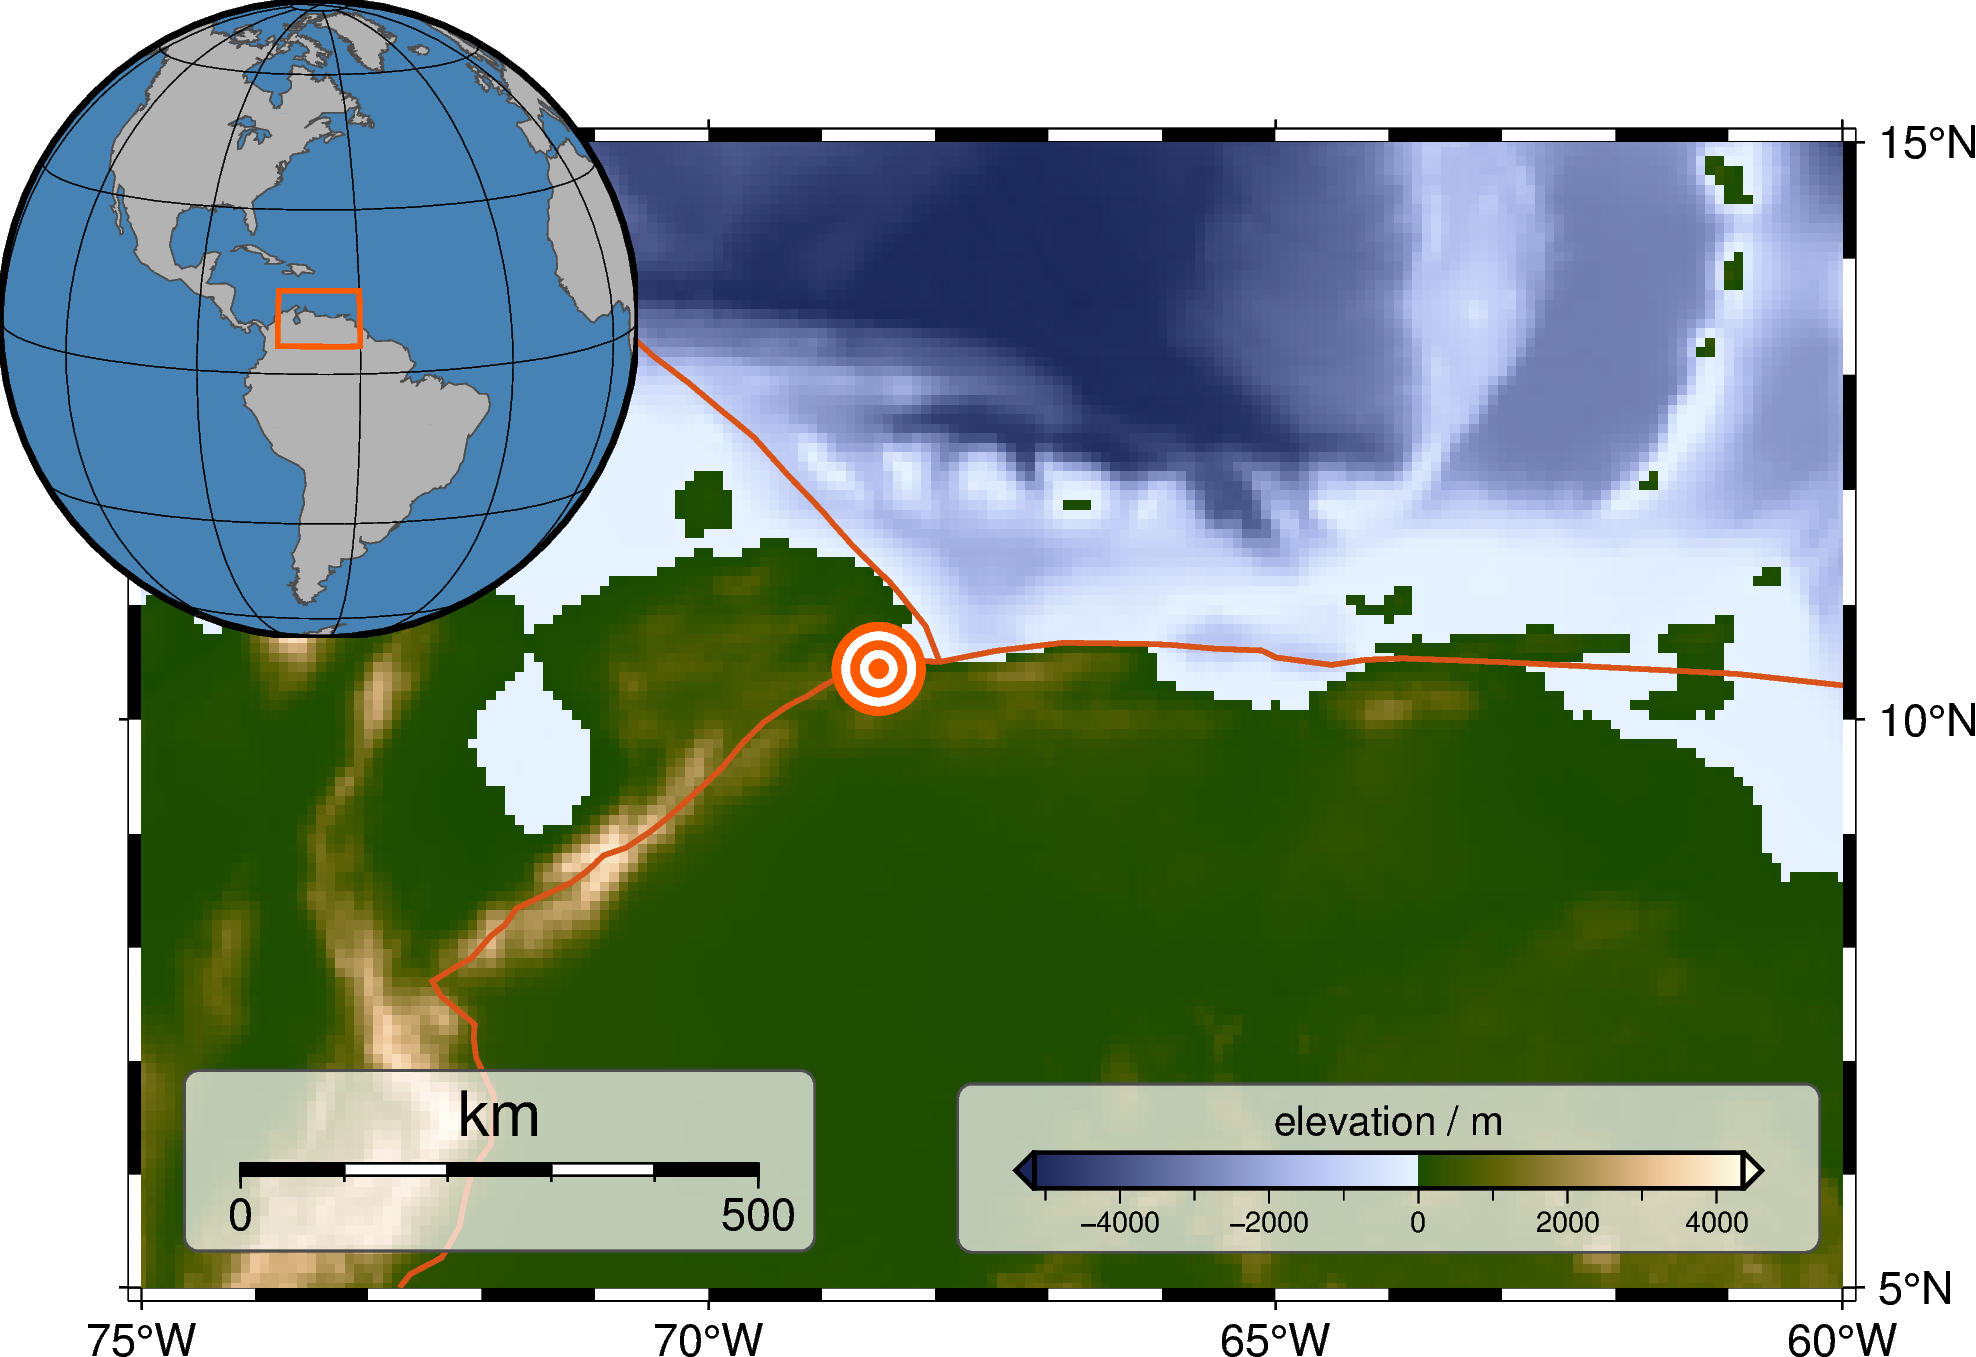
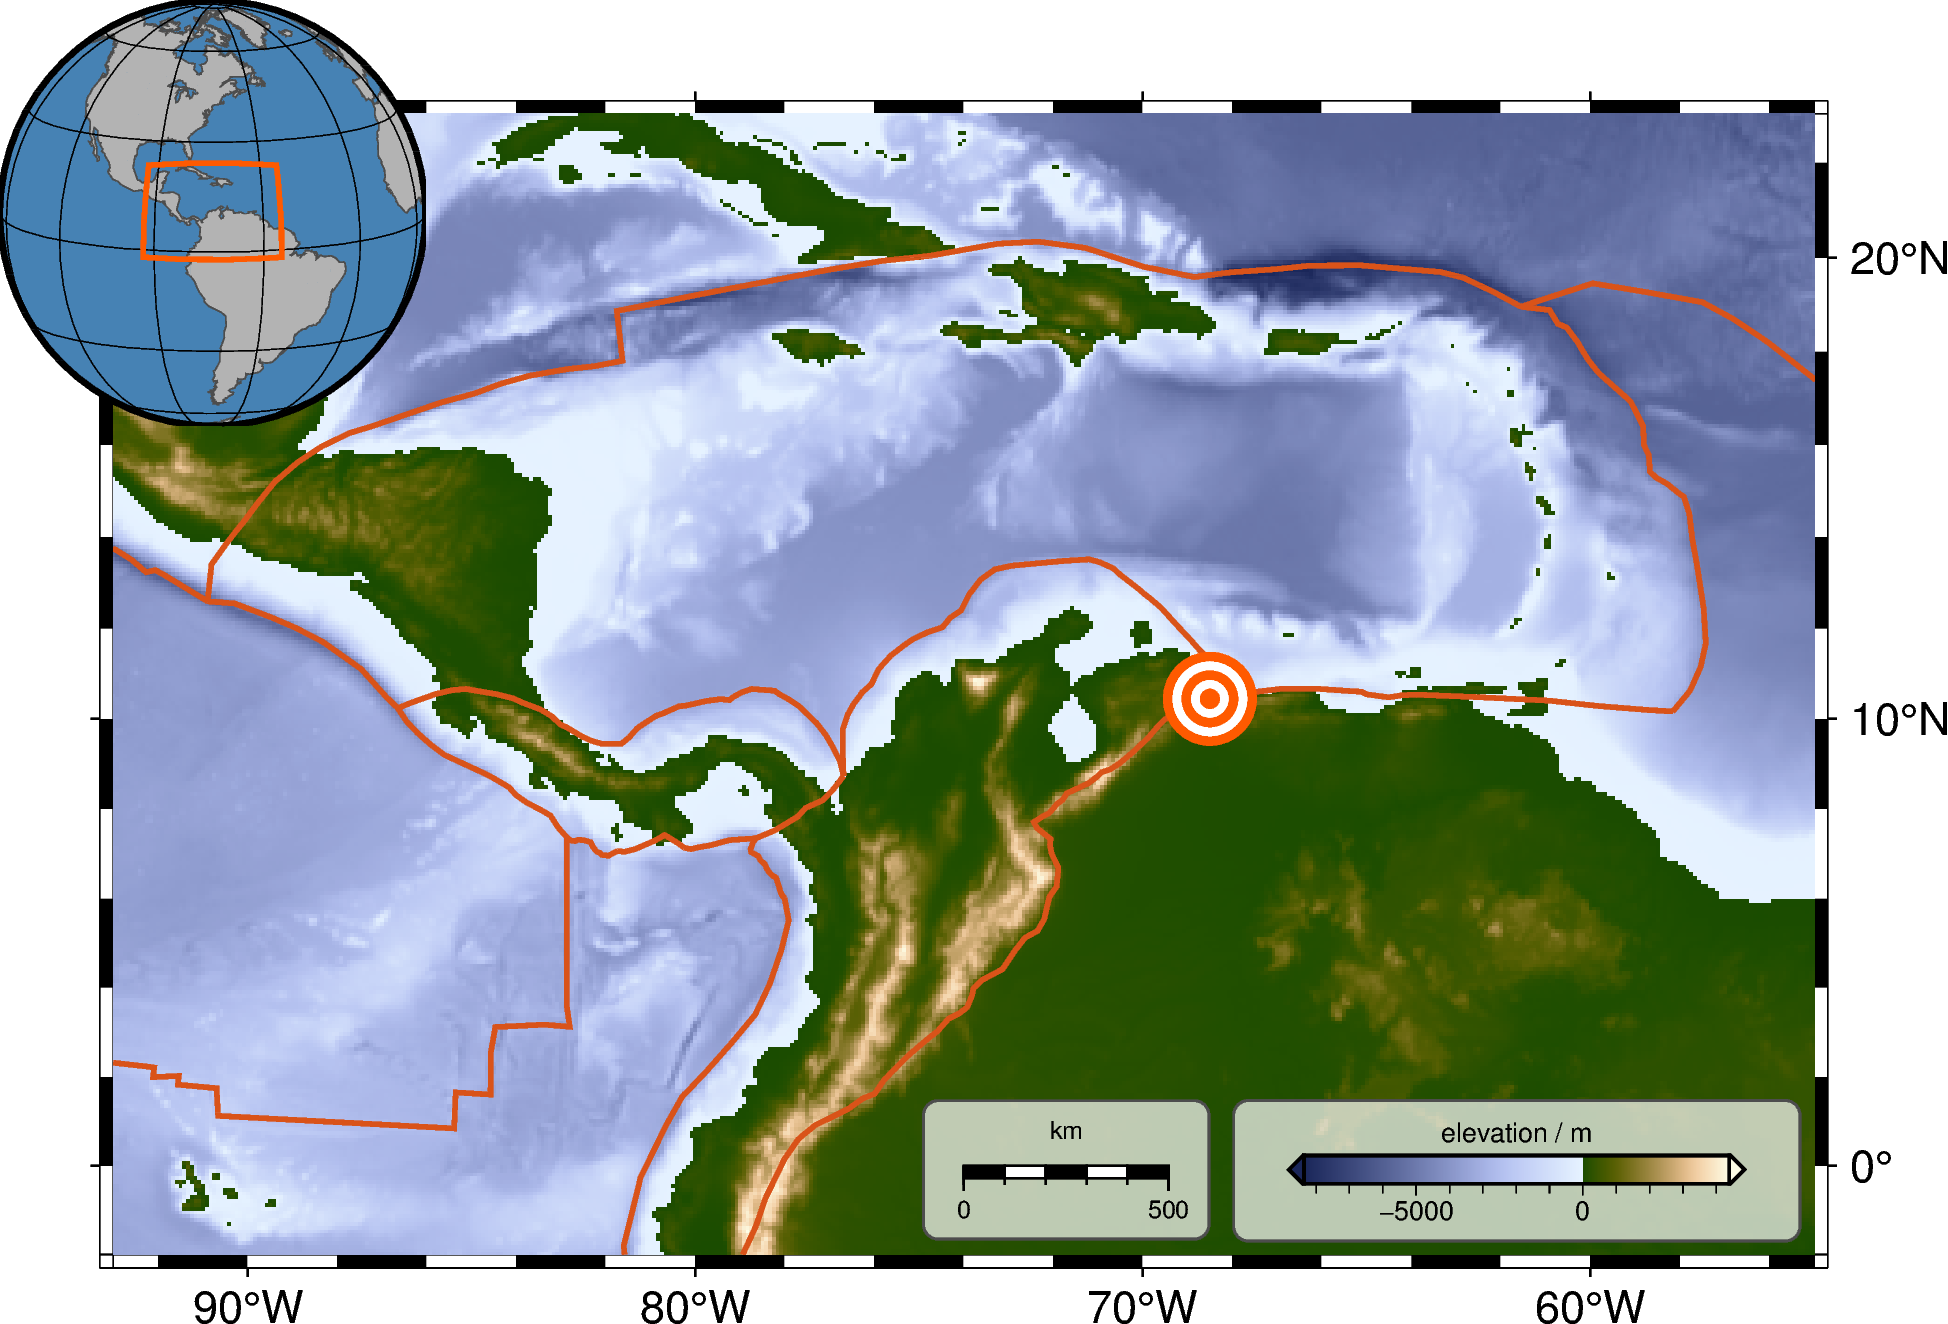
Adjust study region, position of colorbar and scale

diff --git a/004_earthquakes_eruptions/12_venezuela_earthquakes.py b/004_earthquakes_eruptions/12_venezuela_earthquakes.py
@@ -37,10 +37,10 @@ file_pb = "plate_boundaries_Bird_2003.txt"
 
 # -----------------------------------------------------------------------------
 # Define region and projections
-lon_min = -75  # degrees East
-lon_max = -60
-lat_min = 5  # degrees North
-lat_max = 15
+lon_min = -93  # degrees East
+lon_max = -55
+lat_min = -2  # degrees North
+lat_max = 23
 region = [lon_min, lon_max, lat_min, lat_max]
 center_str = f"{(lon_min + lon_max) / 2}/{(lat_min + lat_max) / 2}"
 
@@ -62,12 +62,12 @@ color_highlight = "255/90/0"  # -> orange
 
 # -----------------------------------------------------------------------------
 # Stuff for scale, legends, colorbars, and insets
-basemap_scale = f"JLB+jLB+w500+c{center_str}+f+lkm+at+o0.7c"
+basemap_scale = f"JMB+jLB+w500+c{center_str}+f+lkm+at+o0c/0.45c"
 
-pos_study_inset = "jTL+w4.5c+o-1c"
-
-pos_cb_grid = "JRB+jRB+w5c/0.25c+h+ml+o0.7c+e"
+pos_cb_grid = "JRB+jRB+w3c/0.2c+h+ml+o0.6c/0.5c+e"
 frame_cb_grid = "+lelevation / m"
+
+pos_study_inset = "jTL+w3c+o-0.8c"
 
 box_standard = "+gwhite@30+p0.5p,gray30+r0.1c"
 
@@ -76,8 +76,6 @@ box_standard = "+gwhite@30+p0.5p,gray30+r0.1c"
 # -----------------------------------------------------------------------------
 # Make geographic map
 # -----------------------------------------------------------------------------
-
-# Create new Figure() instance
 fig = gmt.Figure()
 fig.basemap(region=region, projection=projection_main, frame=["wSnE", "af"])
 
@@ -136,11 +134,13 @@ fig.text(
 
 # -----------------------------------------------------------------------------
 # Add colorbar for elevation
-fig.colorbar(position=pos_cb_grid, frame=frame_cb_grid, box=box_standard)
+with gmt.config(FONT="12p"):
+    fig.colorbar(position=pos_cb_grid, frame=frame_cb_grid, box=box_standard)
 
 # -----------------------------------------------------------------------------
 # Add length scale
-fig.basemap(map_scale=basemap_scale, box=box_standard)
+with gmt.config(FONT="5p"):
+    fig.basemap(map_scale=basemap_scale, box=box_standard)
 
 # -----------------------------------------------------------------------------
 # Inset map of study region
@@ -181,4 +181,3 @@ for ext in ["png"]:  # , "pdf", "eps"]:
     fig.savefig(fname=f"{path_out}/{fig_name}.{ext}", dpi=dpi_png)
 
 print(fig_name)
-